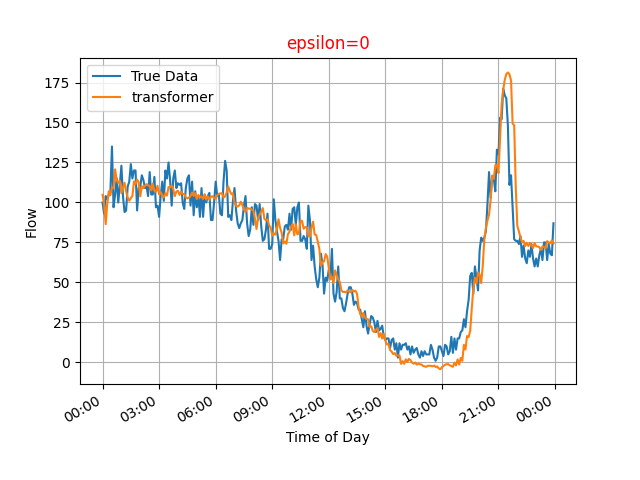
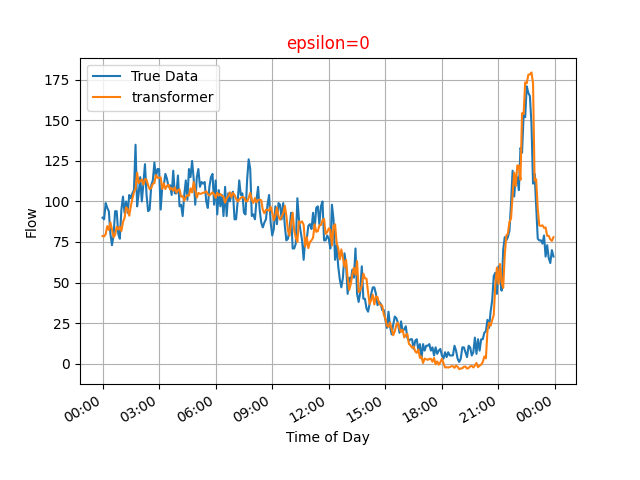
add some result for begin and attack

Changed region(s): [[0.0625, 0.1562, 0.9062, 0.7812], [0.0625, 0.1562, 0.125, 0.1875], [0.0938, 0.5, 0.125, 0.5312]]

diff --git a/transformer_test.py b/transformer_test.py
@@ -22,7 +22,7 @@ from sklearn.preprocessing import MinMaxScaler
 
 # 110-model ,105 best result
 # 100-model ,95 best result
-input_window = 90  # number of input steps
+input_window = 95  # number of input steps
 output_window = 1  # number of prediction steps, in this model its fixed to one
 device = torch.device("cuda" if torch.cuda.is_available() else "cpu")
 
@@ -148,4 +148,5 @@ if __name__ == "__main__":
     y_pred = predicted[:288]
     y_true = test_y[:288]
     result_pic_path = 'result/begin_img/'
-    plot_results(y_pred.detach().numpy(), y_true.detach().numpy(), result_pic_path)
+    # plot_results(y_pred.detach().numpy(), y_true.detach().numpy(), result_pic_path)
+    plot_results(y_pred, y_true, result_pic_path)

diff --git a/transformer_fgsm_attack.py b/transformer_fgsm_attack.py
@@ -20,8 +20,8 @@ from util.utils import eval_regress, write_log, plot_results_attack
 from pandas import read_csv
 from sklearn.preprocessing import MinMaxScaler
 
-epsilon = 0.1
-input_window = 90  # number of input steps
+epsilon = 0.15
+input_window = 95  # number of input steps
 output_window = 1  # number of prediction steps, in this model its fixed to one
 criterion = nn.MSELoss()  # define loss function
 device = torch.device("cuda" if torch.cuda.is_available() else "cpu")

diff --git a/readme.md b/readme.md
@@ -1,2 +1,6 @@
-# TrafficFlowForecastingAttack2
+## TrafficFlowForecastingAttack2
 this is a demo for TrafficFlow Forecasting Attack version2，based on transformer，fgsm，etc.
+
+
+### Result
+
